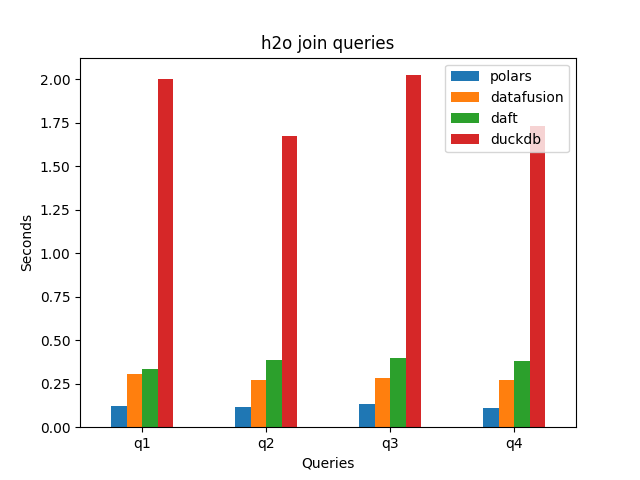
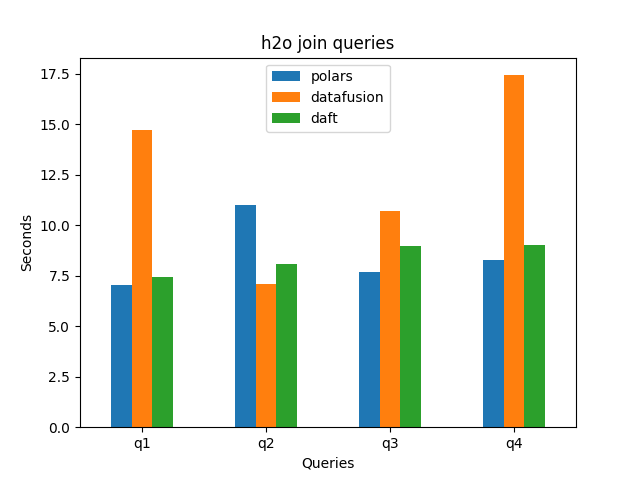
update the join benchmarks

diff --git a/benchmarks/run_all_join.py b/benchmarks/run_all_join.py
@@ -46,12 +46,17 @@ daft_res = daft_h2o_join_queries.run_benchmarks([daft_x, daft_small, daft_medium
 print(daft_res)
 
 # duckdb
-print("*** DuckDB ***")
-duckdb_res = duckdb_h2o_join_queries.run_benchmarks([x, small, medium, large]).rename(columns={"duration": "duckdb"})
-print(duckdb_res)
+# print("*** DuckDB ***")
+# duckdb_res = duckdb_h2o_join_queries.run_benchmarks([x, small, medium, large]).rename(columns={"duration": "duckdb"})
+# print(duckdb_res)
 
 # all results
-res = polars_res.join(datafusion_res, on="task").join(daft_res, on="task").join(duckdb_res, on="task")
+res = (
+    polars_res
+    .join(datafusion_res, on="task")
+    .join(daft_res, on="task")
+    # .join(duckdb_res, on="task"
+)
 print(res)
 
 ax = res.plot.bar(rot=0)
